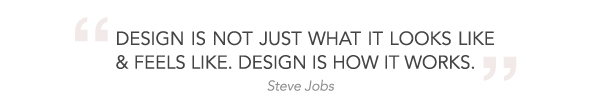
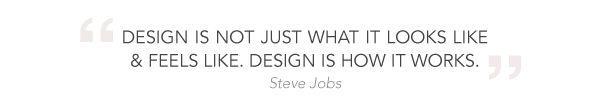
Fixed quote slideshow

Changed region(s): [[0.18, 0.2804, 0.84, 0.4206], [0.18, 0.5047, 0.81, 0.6449], [0.45, 0.729, 0.57, 0.8692]]

diff --git a/style.css b/style.css
@@ -256,87 +256,5 @@ footer > p {
 
 
 
-/* slider styles */
 
 
-#slides {
-	text-align: center;
-}
-
-a.slidesjs-previous.slidesjs-navigation {
-	float: left;
-	width: 20%;
-}
-
-.slidesjs-container {
-	width: 60%;
-	float: left;
-}
-
-a.slidesjs-next.slidesjs-navigation {
-	float: left;
-	width: 20%;
-}
-
-.slidesjs-pagination {
-	clear: both;
-}
-
-.slidesjs-pagination-item {
-	display: inline-block;
-}
-
-
-ul.slidesjs-pagination {
-	list-style-type: disc;
-	-webkit-margin-before: 0em;
-	-webkit-margin-after: 0em;
-	-webkit-margin-start: 0px;
-	-webkit-margin-end: 0px;
-	-webkit-padding-start: 0px;
-}
-
-
-
-
-
-
-
-/*second slide*/
-
-.rslides {
-	position: relative;
-	list-style: none;
-	overflow: hidden;
-	width: 100%;
-	padding: 0;
-	margin: 0;
-}
-
-.rslides li {
-  -webkit-backface-visibility: hidden;
-  position: absolute;
-  display: none;
-  width: 100%;
-  left: 0;
-  top: 0;
-  }
-
-.rslides li:first-child {
-  position: relative;
-  display: block;
-  float: left;
-  }
-
-.rslides img {
-  display: block;
-  height: auto;
-  float: left;
-  width: 100%;
-  border: 0;
-}
-
-
-.centered-btns_nav:hover {
-	opacity: 1;
-}

diff --git a/responsive-slide.css b/responsive-slide.css
@@ -172,3 +172,43 @@ a {
   }
 
 
+
+
+
+/*my slide styles*/
+
+.rslides {
+  position: relative;
+  list-style: none;
+  overflow: hidden;
+  width: 100%;
+  padding: 0;
+}
+
+.rslides li {
+  -webkit-backface-visibility: hidden;
+  position: absolute;
+  display: none;
+  width: 100%;
+  left: 0;
+  top: 0;
+  }
+
+.rslides li:first-child {
+  position: relative;
+  display: block;
+  float: left;
+  }
+
+.rslides img {
+  display: block;
+  height: auto;
+  float: left;
+  width: 100%;
+  border: 0;
+}
+
+
+.centered-btns_nav:hover {
+  opacity: 1;
+}

diff --git a/index.html b/index.html
@@ -110,8 +110,8 @@
 			<div class="rslides_container">
 				<ul class="rslides" id="slider1">
 					<li><img src="images/1.png" alt=""></li>
-	        		<li><img src="images/1.png" alt=""></li>
-	       			<li><img src="images/1.png" alt=""></li>
+	        		<li><img src="images/2.png" alt=""></li>
+	       			<li><img src="images/3.png" alt=""></li>
 				</ul>
 			</div>
 
